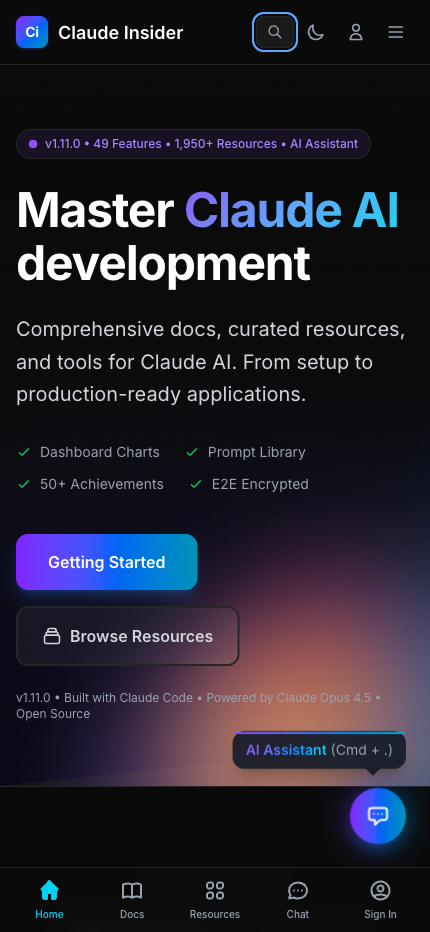
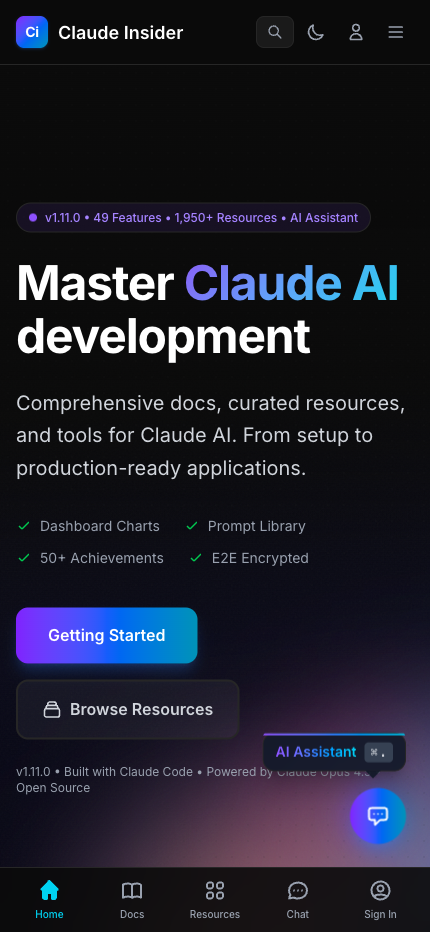
fix(mockup): show full mobile screenshot without cropping
- Change from object-cover to object-contain to display entire screenshot
- Update screenshot from live site with header and bottom nav visible
- The slight aspect ratio difference creates minimal letterboxing that
  blends naturally with the phone's black screen background

🤖 Generated with [Claude Code](https://claude.com/claude-code)

diff --git a/apps/web/components/device-mockups.tsx b/apps/web/components/device-mockups.tsx
@@ -345,16 +345,16 @@ function MacBookTerminalContent() {
  */
 function IPhoneScreenContent() {
   return (
-    <div className="h-full w-full bg-[#0a0a0a] overflow-hidden">
+    <div className="h-full w-full bg-[#0a0a0a] overflow-hidden flex items-center justify-center">
       {/* eslint-disable-next-line @next/next/no-img-element */}
       <img
         src="/images/mobile-screenshot.png"
         alt="Claude Insider mobile homepage"
-        className="w-full h-full object-cover"
+        className="w-full h-full object-contain"
         style={{
-          // Shift image down to clear Dynamic Island (~26px in mockup coordinates)
-          // This ensures the header and logo are fully visible below the notch
-          objectPosition: 'center 2%'
+          // Use object-contain to show full screenshot without cropping
+          // The slight aspect ratio difference creates minimal letterboxing
+          // which blends with the phone's black screen background
         }}
       />
     </div>
